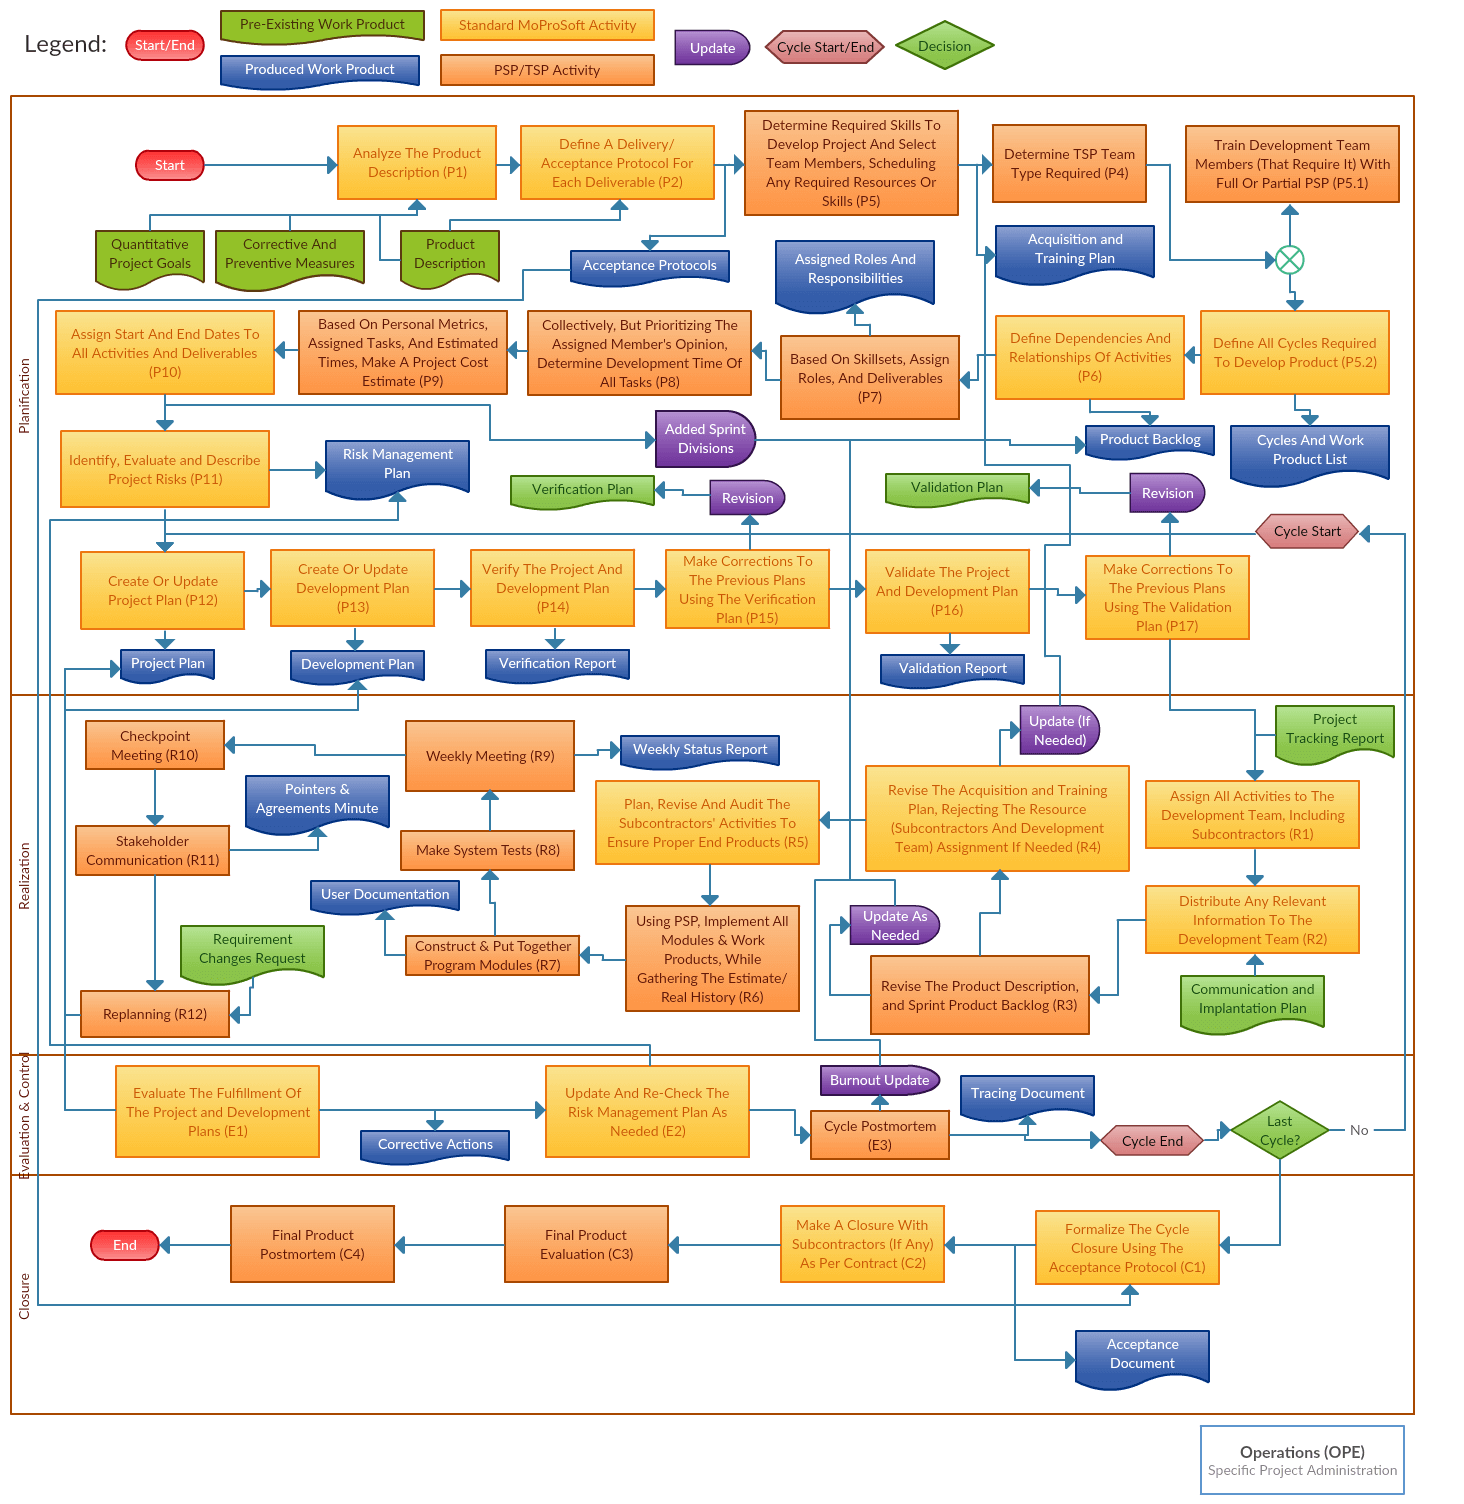
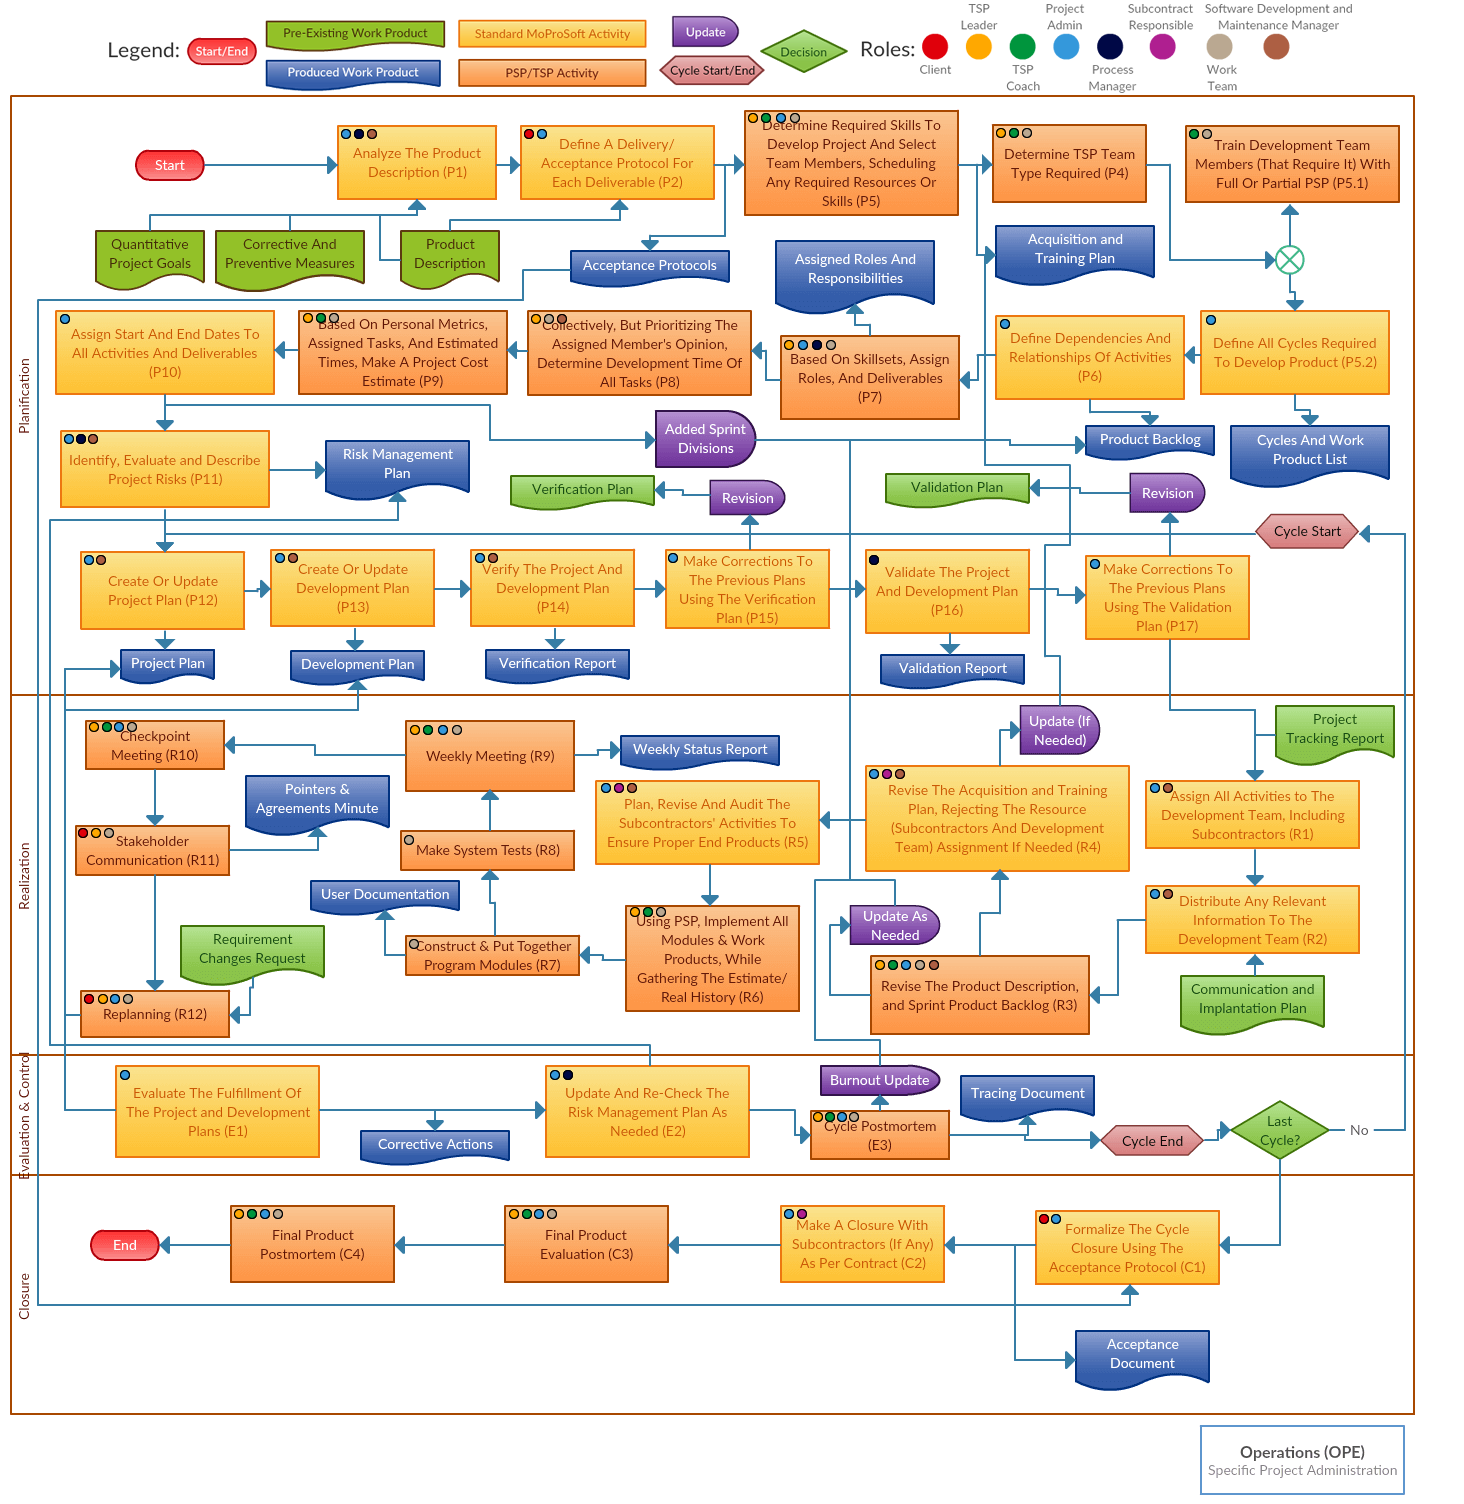
Specific Project Administration Activities + Roles

diff --git a/content/roles/main_page.md b/content/roles/main_page.md
@@ -1,0 +1,25 @@
+---
+layout: page
+title: Roles
+nav_order: 3
+has_children: false
+has_toc: false
+permalink: /roles/
+---
+
+# Roles
+
+Taking part in the TSP/PSP process, will require the involvement of different parties that fulfill very specific roles.
+The following format will be followed to present them:
+```yaml
+Role name: Capacitation required to fulfill roles.
+```
+
+* _**Client:**_ Knowledge in the proper means and ways to give out new change requests.
+* _**(Specific) Project Admin:**_ Leadership capacity with experience in the fields of decision making, strategic planning, project, delegation, supervision and personnel management, alongside with finance knowledge and software development knowledge.
+* _**Process Manager:**_ Placeholder
+* _**Subcontract Responsible:**_ Project administration experience.
+* _**Work Team:**_ Each member must be knowledgeable and have experience on their designated area.
+* _**Software Development and Maintenance Manager:**_ Self explanatory, requires knowdledge and experience developing and giving maintenance to software products.
+* _**TSP Leader:**_ Team management and leadership skills, count with both PSP and TSP certified training (Note: Could be the same person taking in the role as the specific project administrator).
+* _**TSP Coach:**_ Have certified training for TSP mentoring, one on one coaching experience, high level communication skills to keep everyone on the loop, and naturally, coaching skills (Which may involve leading members to "fail on their own").

diff --git a/content/phases/specific_project_administration/planification/p11.md b/content/phases/specific_project_administration/planification/p11.md
@@ -8,4 +8,19 @@ permalink: /phases/operations/specific_project_administration/planification/p11/
 ---
 
 # (P11) Identify, Evaluate and Describe Project Risks
-Content goes here
+
+## Participating roles:
+* <a href="/roles/">_**(Specific) Project Admin**_</a>
+* <a href="/roles/">_**Process Manager**_</a>
+* <a href="/roles/">_**Software Development and Maintenance Manager**_</a>
+
+## Activity Description
+Identify, describe and evaluate the different risks that can arise and compromise the project.
+
+Contemplate any risks related to the work team, including the client and end users, risks with the technology, methodology, project organization (cost, time, resources and scope) or any external risks to the project.
+
+Identify the probability of each of the found risks, and the overall impact and cuantitative implications on the project.
+
+Prioritize the effects of risks over the project objectives.
+
+Create procedures in order to reduce the impact of risks, and document it all on the risk management plan.

diff --git a/content/phases/specific_project_administration/planification/p3.md b/content/phases/specific_project_administration/planification/p3.md
@@ -8,4 +8,12 @@ permalink: /phases/operations/specific_project_administration/planification/p3/
 ---
 
 # (P3) Determine Required Skills To Develop Project
-Content goes here
+
+## Participating roles:
+* <a href="/roles/">_**(Specific) Project Admin**_</a>
+* <a href="/roles/">_**Work Team**_</a>
+* <a href="/roles/">_**TSP Leader**_</a>
+* <a href="/roles/">_**TSP Coach**_</a>
+
+## Activity Description
+Alongside everyone in the core TSP process, and the project admin, determine the skills that will be needed in order to fulfill the project. Select enough people that will fit for each of those skill requirements (now the work team), and shedule time for training in case people with required skills aren't in the team or available to acquire.

diff --git a/content/phases/specific_project_administration/closure/c4.md b/content/phases/specific_project_administration/closure/c4.md
@@ -8,4 +8,12 @@ permalink: /phases/operations/specific_project_administration/closure/c4/
 ---
 
 # (C4) Final Product Postmortem
-Content goes here
+
+## Participating roles:
+* <a href="/roles/">_**(Specific) Project Admin**_</a>
+* <a href="/roles/">_**Software Development and Maintenance Manager**_</a>
+* <a href="/roles/">_**TSP Leader**_</a>
+* <a href="/roles/">_**TSP Coach**_</a>
+
+## Activity Description
+Generate a document that involves all detected improvements for the quality, design practices, planning, tracking, and teamworking. That documents the economical, burndown and estimation accuracy. Any information that can be referenced on subsequent cycles of projects is welcome.

diff --git a/content/phases/specific_project_administration/realization/r12.md b/content/phases/specific_project_administration/realization/r12.md
@@ -8,4 +8,12 @@ permalink: /phases/operations/specific_project_administration/realization/r12/
 ---
 
 # (R12) Replanning
-Content goes here
+
+## Participating roles:
+* <a href="/roles/">_**(Specific) Project Admin**_</a>
+* <a href="/roles/">_**Client**_</a>
+* <a href="/roles/">_**Work Team**_</a>
+* <a href="/roles/">_**TSP Leader**_</a>
+
+## Activity Description
+Hold periodic short replanning meetings, to ensure that the team stays on track and maintains its motivation, in which the team leader reviews the current management priorities, and the team members summarize their status and adjust their individual and team plans as needed to address those priorities.

diff --git a/content/phases/specific_project_administration/realization/r11.md b/content/phases/specific_project_administration/realization/r11.md
@@ -8,4 +8,13 @@ permalink: /phases/operations/specific_project_administration/realization/r11/
 ---
 
 # (R11) Stakeholder Communication
-Content goes here
+
+## Participating roles:
+* <a href="/roles/">_**Client**_</a>
+* <a href="/roles/">_**Work Team**_</a>
+* <a href="/roles/">_**TSP Leader**_</a>
+
+## Activity Description
+Via project tracking reports, prompt news (in case of bad scenarios), and status reports keep constant (or at least, scheduled) communication with stakeholders regarding the state of the project.
+
+While this is an intended "always running" process, this moment in the sequence is preffered to present progress demos for further feedback.

diff --git a/content/phases/specific_project_administration/realization/r10.md b/content/phases/specific_project_administration/realization/r10.md
@@ -8,4 +8,12 @@ permalink: /phases/operations/specific_project_administration/realization/r10/
 ---
 
 # (R10) Checkpoint Meeting
-Content goes here
+
+## Participating roles:
+* <a href="/roles/">_**(Specific) Project Admin**_</a>
+* <a href="/roles/">_**Software Development and Maintenance Manager**_</a>
+* <a href="/roles/">_**TSP Leader**_</a>
+* <a href="/roles/">_**TSP Coach**_</a>
+
+## Activity Description
+Taking into account the checkpoint (milesone reached), discuss the different issues, roadblocks and problems encountered, such as process implementation, data gathering, data analysis, and look for solutions to those detected problems.

diff --git a/content/phases/specific_project_administration/realization/r9.md b/content/phases/specific_project_administration/realization/r9.md
@@ -8,4 +8,12 @@ permalink: /phases/operations/specific_project_administration/realization/r9/
 ---
 
 # (R9) Weekly Meeting
-Content goes here
+
+## Participating roles:
+* <a href="/roles/">_**(Specific) Project Admin**_</a>
+* <a href="/roles/">_**Software Development and Maintenance Manager**_</a>
+* <a href="/roles/">_**TSP Leader**_</a>
+* <a href="/roles/">_**TSP Coach**_</a>
+
+## Activity Description
+Assessing the earned value, task hour status, key milestones reviews, an overall assessment on the progress done and remaining workload. Taking any measures necesarry to improve quality and the overall development process for the next cycle.

diff --git a/content/phases/specific_project_administration/realization/r5.md b/content/phases/specific_project_administration/realization/r5.md
@@ -8,4 +8,11 @@ permalink: /phases/operations/specific_project_administration/realization/r5/
 ---
 
 # (R5) Plan, Revise And Audio The Subcontractor's Activities
-Content goes here
+
+## Participating roles:
+* <a href="/roles/">_**(Specific) Project Admin**_</a>
+* <a href="/roles/">_**Subcontract Responsible**_</a>
+* <a href="/roles/">_**Software Development and Maintenance Manager**_</a>
+
+## Activity Description
+Manage the subcontration relantionships, which involves to plan, revise, and audit the activities, ensuring end product quality and that it complies with the acceptance standards with the agreed specifications.

diff --git a/content/phases/specific_project_administration/realization/r3.md b/content/phases/specific_project_administration/realization/r3.md
@@ -8,4 +8,13 @@ permalink: /phases/operations/specific_project_administration/realization/r3/
 ---
 
 # (R3) Revise The Product Description, And Sprint Product Backlog
-Content goes here
+
+## Participating roles:
+* <a href="/roles/">_**(Specific) Project Admin**_</a>
+* <a href="/roles/">_**Work Team**_</a>
+* <a href="/roles/">_**Software Development and Maintenance Manager**_</a>
+* <a href="/roles/">_**TSP Leader**_</a>
+* <a href="/roles/">_**TSP Coach**_</a>
+
+## Activity Description
+Complying with the key TSP activity of "analyzing data to execute the development plan", before fully delving into a development cycle

diff --git a/content/phases/specific_project_administration/realization/r1.md b/content/phases/specific_project_administration/realization/r1.md
@@ -7,5 +7,11 @@ grand_parent: Specific Project Administration
 permalink: /phases/operations/specific_project_administration/realization/r1/
 ---
 
-# (R1) Assign All Activities To The Development Team
-Content goes here
+# (R1) Assign All Activities To The Development Team, Including Subcontractors
+
+## Participating roles:
+* <a href="/roles/">_**(Specific) Project Admin**_</a>
+* <a href="/roles/">_**Software Development and Maintenance Manager**_</a>
+
+## Activity Description
+Come to an agreement with the software development and maintenance manager, to assign tasks to the work team, including any subcontractors.

diff --git a/content/phases/specific_project_administration/planification/p8.md b/content/phases/specific_project_administration/planification/p8.md
@@ -8,4 +8,11 @@ permalink: /phases/operations/specific_project_administration/planification/p8/
 ---
 
 # (P8) Determine Tasks Development Times
-Content goes here
+
+## Participating roles:
+* <a href="/roles/">_**Work Team**_</a>
+* <a href="/roles/">_**Software Development and Maintenance Manager**_</a>
+* <a href="/roles/">_**TSP Leader**_</a>
+
+## Activity Description
+Making use of the core strength of PSP time planning, allow each of the TSP members that were assigned tasks, to make an educated guess (making use of their historic data) as to how long they will spend developing their delieverables.
